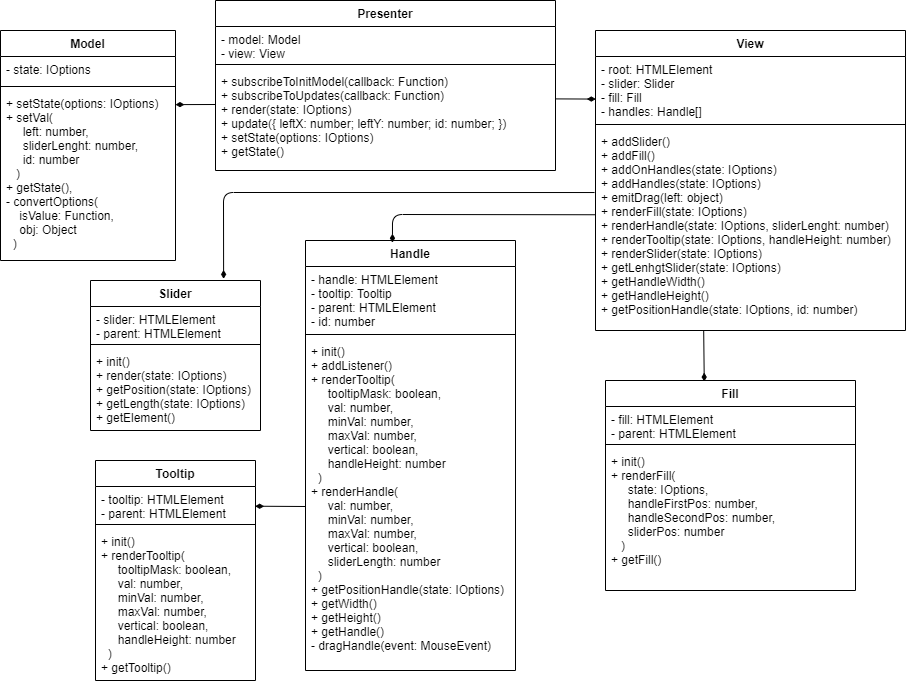
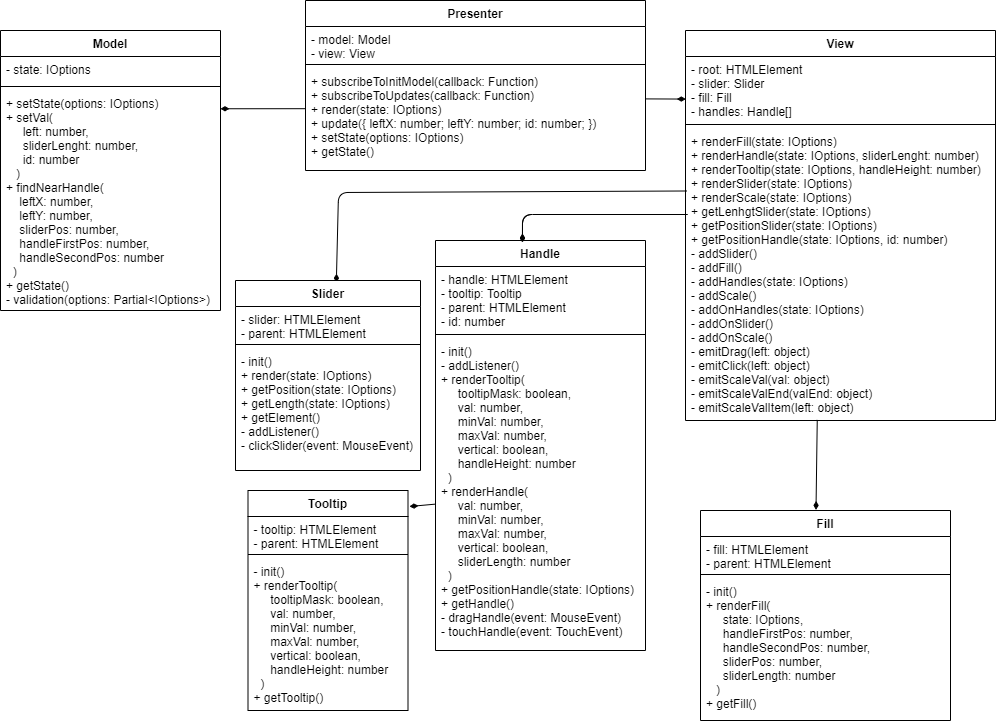
corrected tests and UML #8

diff --git a/tests/Fill.spec.ts b/tests/Fill.spec.ts
@@ -6,6 +6,7 @@ describe("Fill tests:", () => {
   const handleFirstPos = 100;
   const handleSecondPos = 300;
   const sliderPos = 0;
+  const sliderLength = 400;
   let state: IOptions;
 
   beforeEach(() => {
@@ -17,66 +18,66 @@ describe("Fill tests:", () => {
   });
 
   describe("renderFill", () => {
-    const length: number = 100;
+    const length: number = 27.500000000000004;
 
     test("renderFill vertical", () => {
 
       state = {...defaultOptions, ...{ range: false, vertical: true }};
-      fill.renderFill(state, handleFirstPos, handleSecondPos, sliderPos);
+      fill.renderFill(state, handleFirstPos, handleSecondPos, sliderPos, sliderLength);
 
       let element = fill.getFill();
 
       expect(element.className).toBe("slider__fill fill--vertical");
       expect(element.style.left).toBe("");
       expect(element.style.width).toBe("");
-      expect(element.style.height).toBe(length + "px");
+      expect(element.style.height).toBe(length + "%");
       expect(element.style.top).toBe("0px");
     });
 
     test("renderFill horizontal", () => {
       state = {...defaultOptions, ...{ range: false, vertical: false }}
-      fill.renderFill(state, handleFirstPos, handleSecondPos, sliderPos);
+      fill.renderFill(state, handleFirstPos, handleSecondPos, sliderPos, sliderLength);
 
       let element = fill.getFill();
 
       expect(element.className).toBe("slider__fill");
       expect(element.style.top).toBe("");
       expect(element.style.height).toBe("");
-      expect(element.style.width).toBe(length + "px");
+      expect(element.style.width).toBe(length + "%");
       expect(element.style.left).toBe("0px");
     });
 
   });
 
   describe("renderRangeFill", () => {
-    const length: number = 200;
-    const shift: number = 100;
+    const length: number = 50;
+    const shift: number = 27.500000000000004;
 
     test("renderRangeFill vertical", () => {
       state = {...defaultOptions, ...{ range:true, vertical: true }}
-      fill.renderFill(state, handleFirstPos, handleSecondPos, sliderPos);
+      fill.renderFill(state, handleFirstPos, handleSecondPos, sliderPos, sliderLength);
 
       let element = fill.getFill();
 
       expect(element.className).toBe("slider__fill fill--vertical");
       expect(element.style.left).toBe("");
       expect(element.style.width).toBe("");
-      expect(element.style.height).toBe(length + "px");
-      expect(element.style.top).toBe(shift + "px");
+      expect(element.style.height).toBe(length + "%");
+      expect(element.style.top).toBe(shift + "%");
     });
 
 
     test("renderRangeFill horizontal", () => {
       state = {...defaultOptions, ...{ range:true, vertical: false }}
-      fill.renderFill(state, handleFirstPos, handleSecondPos, sliderPos);
+      fill.renderFill(state, handleFirstPos, handleSecondPos, sliderPos, sliderLength);
 
       let element = fill.getFill();
 
       expect(element.className).toBe("slider__fill");
       expect(element.style.top).toBe("");
       expect(element.style.height).toBe("");
-      expect(element.style.width).toBe(length + "px");
-      expect(element.style.left).toBe(shift + "px");
+      expect(element.style.width).toBe(length + "%");
+      expect(element.style.left).toBe(shift + "%");
     });
   });
 });

diff --git a/tests/Handle.spec.ts b/tests/Handle.spec.ts
@@ -15,24 +15,23 @@ describe("Handle tests:", () => {
     const val: number = 2;
     const minVal: number = -3;
     const maxVal: number = 7;
-    const sliderLength: number = 380;
 
     test("renderHandle horizontal", () => { 
       const vertical: boolean = false;
-      handle.renderHandle(val, minVal, maxVal, vertical, sliderLength);
+      handle.renderHandle(val, minVal, maxVal, vertical);
       let element: HTMLElement = handle.getHandle();
       
       expect(element.style.top).toBe("");
-      expect(Object.is(element.style.left, "190px")).toBe(true)
+      expect(element.style.left).toBe("48%")
     });
 
     test("renderHandle vertical", () => {  
       const vertical: boolean = true;
-      handle.renderHandle(val, minVal, maxVal, vertical, sliderLength);
+      handle.renderHandle(val, minVal, maxVal, vertical);
       let element: HTMLElement = handle.getHandle();
 
       expect(element.style.left).toBe("");
-      expect(Object.is(element.style.top, "190px")).toBe(true)
+      expect(element.style.top).toBe("48%")
     });
 
   

diff --git a/src/MVP/View/Fill/Fill.ts b/src/MVP/View/Fill/Fill.ts
@@ -7,6 +7,7 @@ class Fill {
 
   constructor(parent: HTMLElement) {
     this.parent = parent;
+    this.fill = createElement("div", { class: "slider__fill" });
     this.init();
     this.renderFill = this.renderFill.bind(this);
   }
@@ -47,9 +48,12 @@ class Fill {
     }
   }
 
-  private init() {
-    this.fill = createElement("div", { class: "slider__fill" });
+  private init(): void {
     this.parent.appendChild(this.fill);
+  }
+
+  public getFill(): HTMLElement {
+    return this.fill;
   }
 
 }

diff --git a/src/MVP/View/Tooltip/Tooltip.ts b/src/MVP/View/Tooltip/Tooltip.ts
@@ -9,6 +9,7 @@ class Tooltip extends EventEmitter {
     super();
 
     this.parent = parent;
+    this.tooltip = createElement("div", { class: "slider__tooltip" });
     this.init();
   }
 
@@ -45,8 +46,11 @@ class Tooltip extends EventEmitter {
   }
 
   private init() {
-    this.tooltip = createElement("div", { class: "slider__tooltip" });
     this.parent.appendChild(this.tooltip);
+  }
+
+  public getTooltip(): HTMLElement {
+    return this.tooltip;
   }
 
 }

diff --git a/src/MVP/View/Slider/Slider.ts b/src/MVP/View/Slider/Slider.ts
@@ -10,6 +10,7 @@ class Slider extends EventEmitter {
     super();
 
     this.parent = parent;
+    this.slider = createElement("div", { class: "slider" });
     this.init();
     this.addListener();
   }
@@ -34,8 +35,7 @@ class Slider extends EventEmitter {
     return this.slider;
   }
 
-  private init() {
-    this.slider = createElement("div", { class: "slider" });
+  private init(): void {
     this.parent.appendChild(this.slider);
   }
 

diff --git a/src/MVP/View/Handle/Handle.ts b/src/MVP/View/Handle/Handle.ts
@@ -13,6 +13,7 @@ class Handle extends EventEmitter {
     super();
 
     this.parent = parent;
+    this.handle = createElement("div", { class: "slider__handle" });
     this.init();
     this.addListener();
     this.id = id;
@@ -75,7 +76,6 @@ class Handle extends EventEmitter {
   }
 
   private init() {
-    this.handle = createElement("div", { class: "slider__handle" });
     this.parent.appendChild(this.handle);
   }
 
